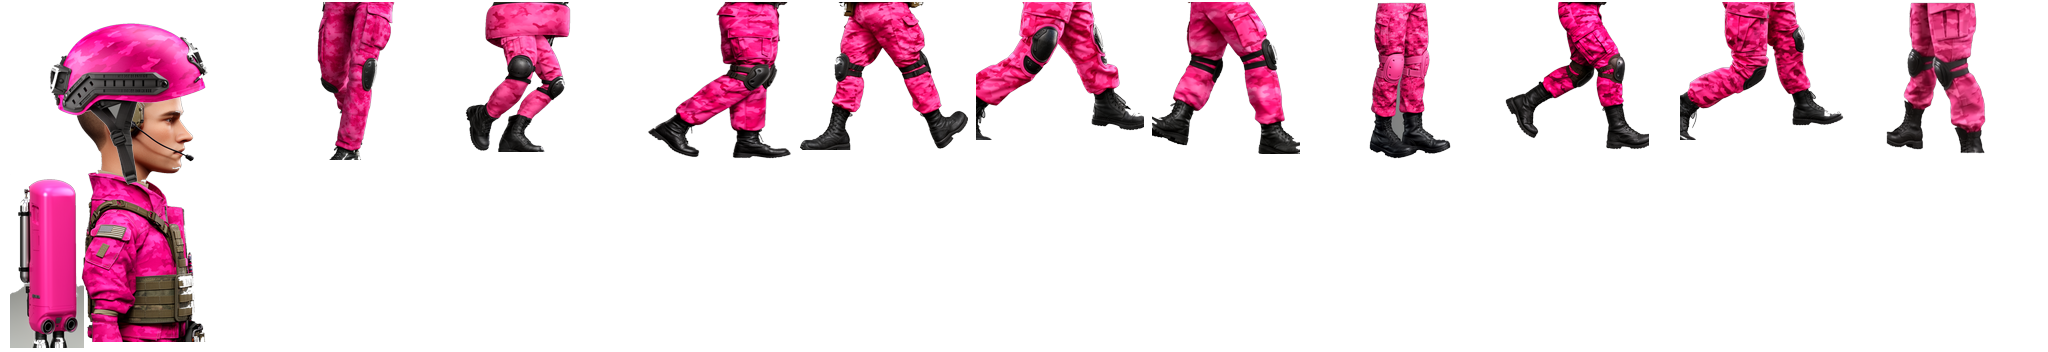
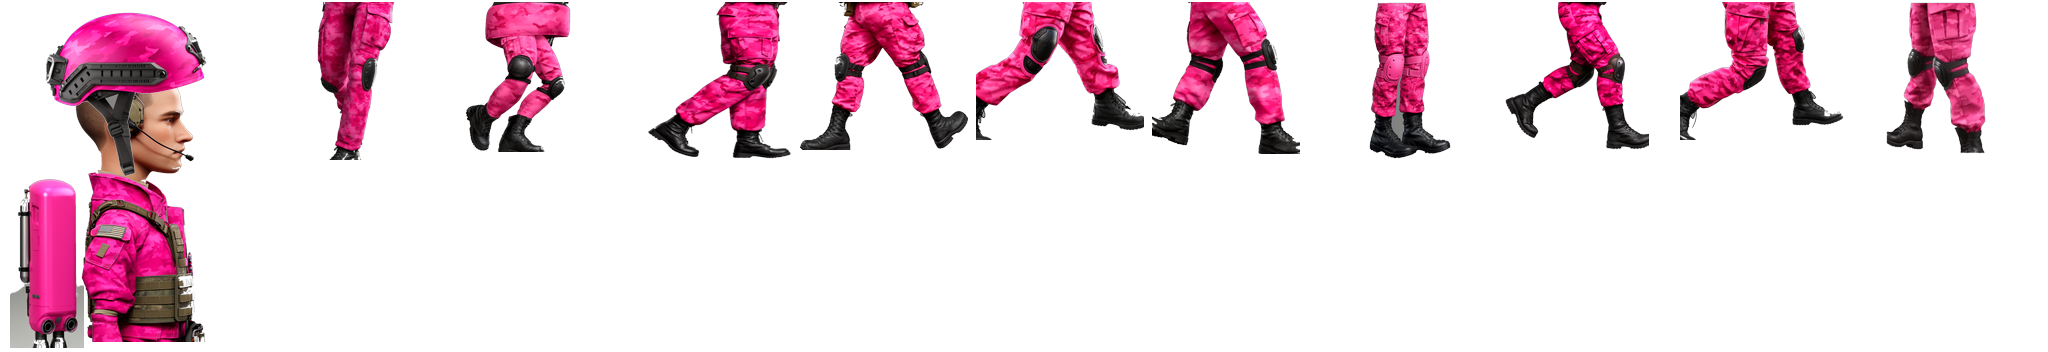
Refit helmets per variant; key sky out of building facades
Helmets now fit by shell width with tops aligned (chin straps skewed
area-based fits) and a tighter key tolerance keeps pale shells intact.
Facade cells key out their baked night sky and crop to content; the
renderer tiles the solid lower half below a full-silhouette top row.

Changed region(s): [[0.0, 0.0312, 0.125, 0.4062]]

diff --git a/src/client/render/scene.ts b/src/client/render/scene.ts
@@ -338,19 +338,27 @@ function drawCity(
       const drawTiled = (x: number, y: number, w2: number, h2: number): void => {
         const TILE_W = 220;                       // world units per facade cell
         const TILE_H = 440;
-        for (let ty = 0; ty < h2; ty += TILE_H) {
-          const th = Math.min(TILE_H, h2 - ty);
-          const kf = ty / h2;
-          const rowTop = mix(tint, tintB, kf);
-          const rowBot = mix(tint, tintB, Math.min(1, (ty + th) / h2));
+        // top row shows the full cell (transparent rooftop silhouette);
+        // rows below repeat the solid lower half so alpha never gaps
+        const SUB_V0 = 0.55;
+        const SUB_H = TILE_H * (1 - SUB_V0);
+        let ty = 0;
+        while (ty < h2) {
+          const first = ty === 0;
+          const rowH = first ? Math.min(TILE_H, h2) : Math.min(SUB_H, h2 - ty);
+          const v0 = first ? 0 : SUB_V0;
+          const v1 = first ? rowH / TILE_H : SUB_V0 + (rowH / TILE_H);
+          const rowTop = mix(tint, tintB, ty / h2);
+          const rowBot = mix(tint, tintB, Math.min(1, (ty + rowH) / h2));
           for (let tx3 = 0; tx3 < w2; tx3 += TILE_W) {
             const tw = Math.min(TILE_W, w2 - tx3);
-            r.texQuadUV(x + tx3, y + ty, tw, th,
-              cu, cv,
+            r.texQuadUV(x + tx3, y + ty, tw, rowH,
+              cu, cv + v0 / FACADE_ROWS,
               cu + (tw / TILE_W) / FACADE_COLS,
-              cv + (th / TILE_H) / FACADE_ROWS,
+              cv + v1 / FACADE_ROWS,
               rowTop, rowBot);
           }
+          ty += rowH;
         }
       };
       drawTiled(b.x, b.top, b.w, h);
